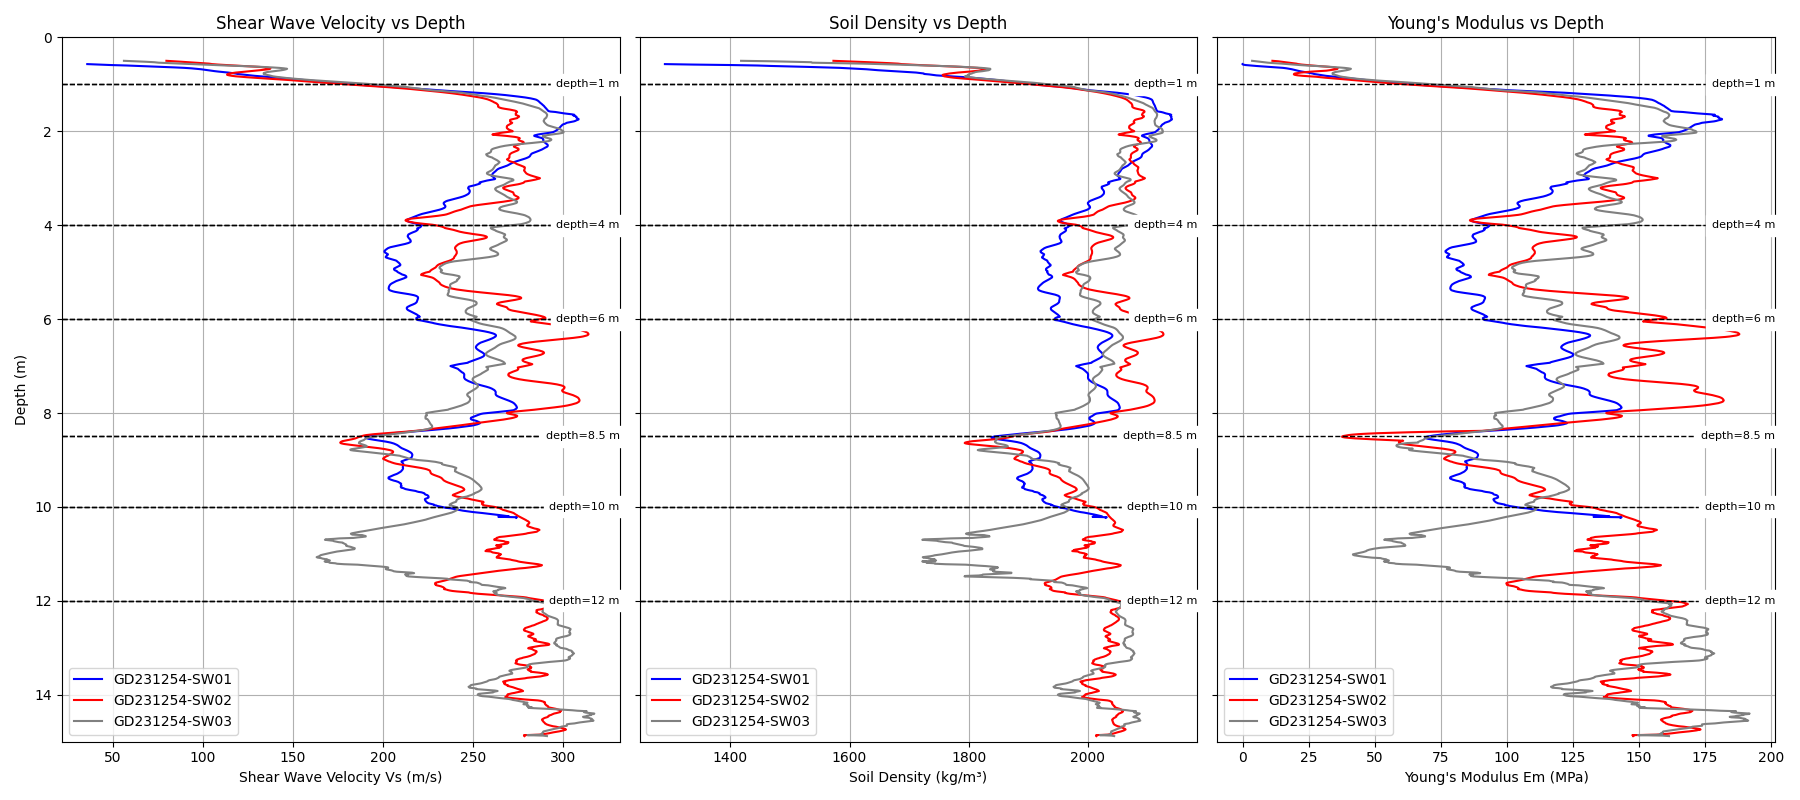
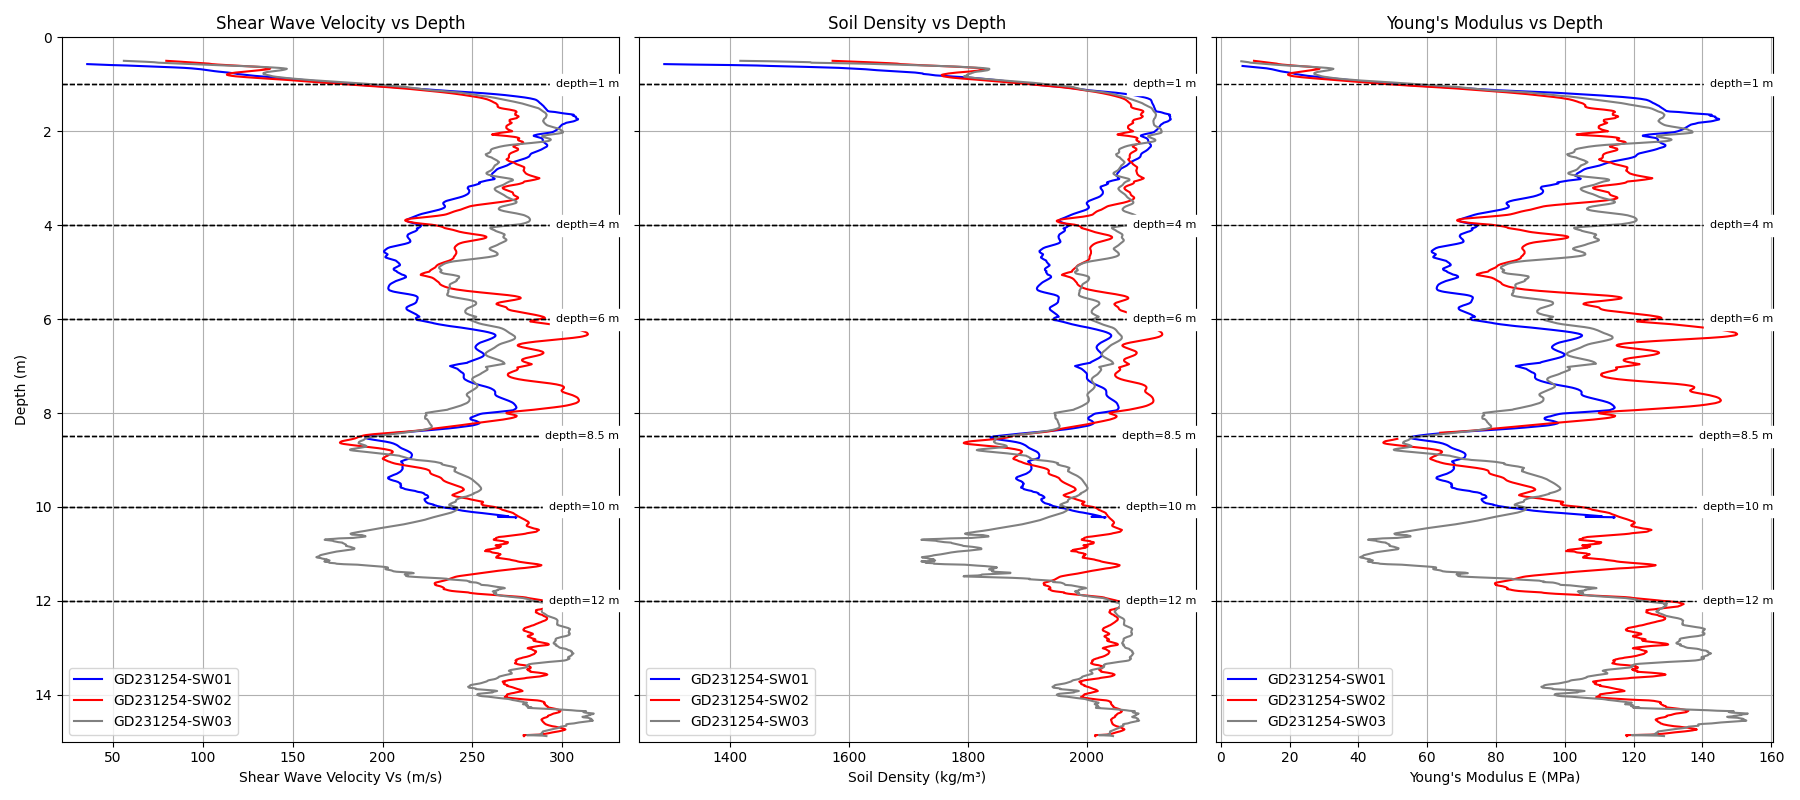
Sonderingen

diff --git a/Holten_rm.py b/Holten_rm.py
@@ -14,50 +14,65 @@ from stem.stem import Stem
 ndim = 3
 model = Model(ndim)
 
-solid_density_onderste = 2100
-porosity_onderste = 0.3
-young_modulus_onderste = 50e6
-poisson_ratio_onderste = 0.35
-soil_formulation_onderste = OnePhaseSoil(ndim, IS_DRAINED=True, DENSITY_SOLID=solid_density_onderste, POROSITY=porosity_onderste)
-constitutive_law_onderste = LinearElasticSoil(YOUNG_MODULUS=young_modulus_onderste, POISSON_RATIO=poisson_ratio_onderste)
-retention_parameters_onderste = SaturatedBelowPhreaticLevelLaw()
-material_soil_onderste = SoilMaterial("soil_onderste", soil_formulation_onderste, constitutive_law_onderste, retention_parameters_onderste)
+# Ballast bed
+solid_density_ballast = 2100
+porosity_ballast = 0.3
+young_modulus_ballast = 125e6
+poisson_ratio_ballast = 0.25
+soil_formulation_ballast = OnePhaseSoil(ndim, IS_DRAINED=True, DENSITY_SOLID=solid_density_ballast, POROSITY=porosity_ballast)
+constitutive_law_ballast = LinearElasticSoil(YOUNG_MODULUS=young_modulus_ballast, POISSON_RATIO=poisson_ratio_ballast)
+retention_parameters_ballast = SaturatedBelowPhreaticLevelLaw()
+material_ballast = SoilMaterial("baanlichaam", soil_formulation_ballast, constitutive_law_ballast, retention_parameters_ballast)
 
-solid_density_complexsat = 2050
-porosity_complexsat = 0.3
-young_modulus_complexsat = 40e6
-poisson_ratio_complexsat = 0.3
-soil_formulation_complexsat = OnePhaseSoil(ndim, IS_DRAINED=True, DENSITY_SOLID=solid_density_complexsat, POROSITY=porosity_complexsat)
-constitutive_law_complexsat = LinearElasticSoil(YOUNG_MODULUS=young_modulus_complexsat, POISSON_RATIO=poisson_ratio_complexsat)
-retention_parameters_complexsat = SaturatedBelowPhreaticLevelLaw()
-material_soil_complexsat = SoilMaterial("soil_complexsat", soil_formulation_complexsat, constitutive_law_complexsat, retention_parameters_complexsat)
+# Laag 1
+solid_density_laag_1 = 2100
+porosity_laag_1 = 0.3
+young_modulus_laag_1 = 125e6
+poisson_ratio_laag_1 = 0.25
+soil_formulation_laag_1 = OnePhaseSoil(ndim, IS_DRAINED=True, DENSITY_SOLID=solid_density_laag_1, POROSITY=porosity_laag_1)
+constitutive_law_laag_1 = LinearElasticSoil(YOUNG_MODULUS=young_modulus_laag_1, POISSON_RATIO=poisson_ratio_laag_1)
+retention_parameters_laag_1 = SaturatedBelowPhreaticLevelLaw()
+material_laag_1 = SoilMaterial("baanlichaam", soil_formulation_laag_1, constitutive_law_laag_1, retention_parameters_laag_1)
 
-solid_density_complexunsat = 1800
-porosity_complexunsat = 0.3
-young_modulus_complexunsat = 50e6
-poisson_ratio_complexunsat = 0.25
-soil_formulation_complexunsat = OnePhaseSoil(ndim, IS_DRAINED=True, DENSITY_SOLID=solid_density_complexunsat, POROSITY=porosity_complexunsat)
-constitutive_law_complexunsat = LinearElasticSoil(YOUNG_MODULUS=young_modulus_complexunsat, POISSON_RATIO=poisson_ratio_complexunsat)
-retention_parameters_complexunsat = SaturatedBelowPhreaticLevelLaw()
-material_soil_complexunsat = SoilMaterial("soil_complexunsat", soil_formulation_complexunsat, constitutive_law_complexunsat, retention_parameters_complexunsat)
+# Laag 2
+solid_density_laag_2 = 2100
+porosity_laag_2 = 0.3
+young_modulus_laag_2 = 125e6
+poisson_ratio_laag_2 = 0.25
+soil_formulation_laag_2 = OnePhaseSoil(ndim, IS_DRAINED=True, DENSITY_SOLID=solid_density_laag_2, POROSITY=porosity_laag_2)
+constitutive_law_laag_2 = LinearElasticSoil(YOUNG_MODULUS=young_modulus_laag_2, POISSON_RATIO=poisson_ratio_laag_2)
+retention_parameters_laag_2 = SaturatedBelowPhreaticLevelLaw()
+material_laag_2 = SoilMaterial("baanlichaam", soil_formulation_laag_2, constitutive_law_laag_2, retention_parameters_laag_2)
 
-solid_density_boxtel = 1700
-porosity_boxtel = 0.3
-young_modulus_boxtel = 25e6
-poisson_ratio_boxtel = 0.25
-soil_formulation_boxtel = OnePhaseSoil(ndim, IS_DRAINED=True, DENSITY_SOLID=solid_density_boxtel, POROSITY=porosity_boxtel)
-constitutive_law_boxtel = LinearElasticSoil(YOUNG_MODULUS=young_modulus_boxtel, POISSON_RATIO=poisson_ratio_boxtel)
-retention_parameters_boxtel = SaturatedBelowPhreaticLevelLaw()
-material_soil_boxtel = SoilMaterial("soil_boxtel", soil_formulation_boxtel, constitutive_law_boxtel, retention_parameters_boxtel)
+# Laag 3
+solid_density_laag_3 = 2100
+porosity_laag_3 = 0.3
+young_modulus_laag_3 = 125e6
+poisson_ratio_laag_3 = 0.25
+soil_formulation_laag_3 = OnePhaseSoil(ndim, IS_DRAINED=True, DENSITY_SOLID=solid_density_laag_3, POROSITY=porosity_laag_3)
+constitutive_law_laag_3 = LinearElasticSoil(YOUNG_MODULUS=young_modulus_laag_3, POISSON_RATIO=poisson_ratio_laag_3)
+retention_parameters_laag_3 = SaturatedBelowPhreaticLevelLaw()
+material_laag_3 = SoilMaterial("baanlichaam", soil_formulation_laag_3, constitutive_law_laag_3, retention_parameters_laag_3)
 
-solid_density_baanlichaam = 2000
-porosity_baanlichaam = 0.3
-young_modulus_baanlichaam = 80e6
-poisson_ratio_baanlichaam = 0.15
-soil_formulation_baanlichaam = OnePhaseSoil(ndim, IS_DRAINED=True, DENSITY_SOLID=solid_density_baanlichaam, POROSITY=porosity_baanlichaam)
-constitutive_law_baanlichaam = LinearElasticSoil(YOUNG_MODULUS=young_modulus_baanlichaam, POISSON_RATIO=poisson_ratio_baanlichaam)
-retention_parameters_baanlichaam = SaturatedBelowPhreaticLevelLaw()
-material_baanlichaam = SoilMaterial("baanlichaam", soil_formulation_baanlichaam, constitutive_law_baanlichaam, retention_parameters_baanlichaam)
+# Laag 4
+solid_density_laag_4 = 2100
+porosity_laag_4 = 0.3
+young_modulus_laag_4 = 125e6
+poisson_ratio_laag_4 = 0.25
+soil_formulation_laag_4 = OnePhaseSoil(ndim, IS_DRAINED=True, DENSITY_SOLID=solid_density_laag_4, POROSITY=porosity_laag_4)
+constitutive_law_laag_4 = LinearElasticSoil(YOUNG_MODULUS=young_modulus_laag_4, POISSON_RATIO=poisson_ratio_laag_4)
+retention_parameters_laag_4 = SaturatedBelowPhreaticLevelLaw()
+material_laag_4 = SoilMaterial("baanlichaam", soil_formulation_laag_4, constitutive_law_laag_4, retention_parameters_laag_4)
+
+# Laag 5
+solid_density_laag_5 = 2100
+porosity_laag_5 = 0.3
+young_modulus_laag_5 = 125e6
+poisson_ratio_laag_5 = 0.25
+soil_formulation_laag_5 = OnePhaseSoil(ndim, IS_DRAINED=True, DENSITY_SOLID=solid_density_laag_5, POROSITY=porosity_laag_5)
+constitutive_law_laag_5= LinearElasticSoil(YOUNG_MODULUS=young_modulus_laag_5, POISSON_RATIO=poisson_ratio_laag_5)
+retention_parameters_laag_5 = SaturatedBelowPhreaticLevelLaw()
+material_laag_5 = SoilMaterial("baanlichaam", soil_formulation_laag_5, constitutive_law_laag_5, retention_parameters_laag_5)
 
 rail_parameters = DefaultMaterial.Rail_54E1_3D.value.material_parameters
 rail_pad_parameters = ElasticSpringDamper(NODAL_DISPLACEMENT_STIFFNESS=[0, 750e6, 0],
@@ -68,7 +83,16 @@ sleeper_parameters = NodalConcentrated(NODAL_DISPLACEMENT_STIFFNESS=[0, 0, 0],
                                        NODAL_MASS=140,
                                        NODAL_DAMPING_COEFFICIENT=[0, 0, 0])
 
-extrusion_length = 50
+extrusion_length = 50 # Hoe lang de track is waarover de trein gaat
+
+# coordinaten grondlagen
+ballast_coordinates = [(0.0, 14.77, 0.0), (10.0, 14.77, 0.0), (10.0, 15.07, 0.0), (0.75, 15.07, 0.0), (0, 15.07, 0.0)]
+laag_1_coordinates = [(0.0, 11.77, 0.0), (10.0, 11.77, 0.0), (10.0, 14.77, 0.0), (0.0, 14.77, 0.0)]
+laag_2_coordinates = [(0.0, 9.77, 0.0), (10.0, 9.77, 0.0), (10.0, 11.77, 0.0), (0.0, 11.77, 0.0)]
+laag_3_coordinates = [(0.0, 7.27, 0.0), (10.0, 7.27, 0.0), (10.0, 9.77, 0.0), (0.0, 9.77, 0.0)]
+laag_4_coordinates = [(0.0, 7.27, 0.0), (10.0, 7.27, 0.0), (10.0, 9.77, 0.0), (0.0, 9.77, 0.0)]
+
+
 soil_onderste_coordinates = [(0.0, -7.0, 0.0), (10.0, -7.0, 0.0), (10.0, -2.0, 0.0), (0.0, -2.0, 0.0)] #onderste laag
 soil_complexsat_coordinates = [(0.0, -2.0, 0.0), (10.0, -2.0, 0.0), (10.0, 8.0, 0.0), (0.0, 8.0, 0.0)] #2 laag
 soil_complexunsat_coordinates = [(0.0, 8.0, 0.0), (10.0, 8.0, 0.0), (10.0, 18.0, 0.0), (0.0, 18.0, 0.0)] #3 laag

diff --git a/Ground_layers_Holten/GD231254-SW-ALL.py b/Ground_layers_Holten/GD231254-SW-ALL.py
@@ -3913,7 +3913,7 @@ axs[1].set_ylim(15, 0)  # Flip y-axis manually
 # Plot 3: Young's Modulus Em
 for depth, Youngs_values, color, label in zip(depths, Youngs_modulus_all, colors, labels):
     axs[2].plot(Youngs_values, depth, color=color, linewidth=1.5, label=label)
-axs[2].set_xlabel("Young's Modulus Em (MPa)")
+axs[2].set_xlabel("Young's Modulus E (MPa)")
 axs[2].set_title("Young's Modulus vs Depth")
 axs[2].grid(True)
 axs[2].legend()
